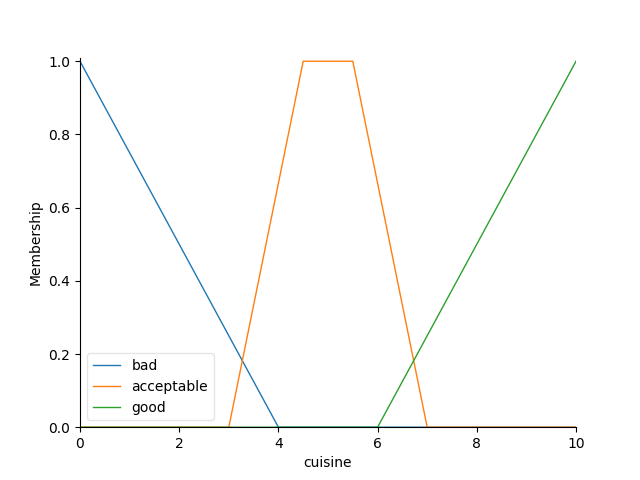
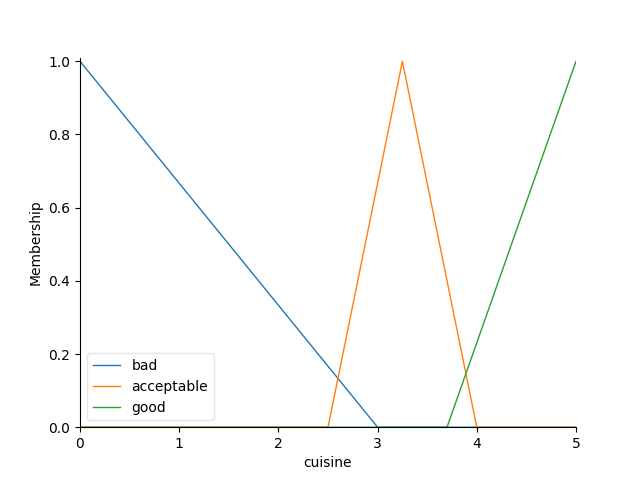
update fuzzy system

diff --git a/restaurant_recommendation.py b/restaurant_recommendation.py
@@ -15,21 +15,22 @@ class RestaurantRecommendation:
         self.price = ctrl.Antecedent(
             np.arange(self.price_range[0], self.price_range[1]+1, 1), 'price')
 
-        self.price['cheap'] = fuzz.trimf(self.price.universe, [10, 10, 30])
-        self.price['affordable'] = fuzz.trapmf(self.price.universe, [25, 35, 45, 55])
-        self.price['expensive'] = fuzz.trapmf(self.price.universe, [40, 60, 70, 90])
-        self.price['very_expensive'] = fuzz.trapmf(self.price.universe, [80, 120, 150, 150])
+        self.price['cheap'] = fuzz.trapmf(self.price.universe, [10, 10, 30,40])
+        self.price['affordable'] = fuzz.trimf(self.price.universe, [20, 40, 60])
+        self.price['expensive'] = fuzz.trimf(self.price.universe, [40, 60, 80])
+        self.price['very_expensive'] = fuzz.trapmf(self.price.universe, [60, 100, 150, 150])
 
         fig, _ = FuzzyVariableVisualizer(self.price).view()
         plt.savefig(images_paths['price'])
 
-        self.cuisine_range = (0, 10)
+        self.cuisine_range = (0, 5)
+        step = .01
         self.cuisine = ctrl.Antecedent(
-            np.arange(self.cuisine_range[0], self.cuisine_range[1]+.5, 0.5), 'cuisine')
+            np.arange(self.cuisine_range[0], self.cuisine_range[1]+step, step), 'cuisine')
 
-        self.cuisine['bad'] = fuzz.trimf(self.cuisine.universe, [0, 0, 4])
-        self.cuisine['acceptable'] = fuzz.trapmf(self.cuisine.universe, [3, 4.5, 5.5, 7])
-        self.cuisine['good'] = fuzz.trimf(self.cuisine.universe, [6, 10, 10])
+        self.cuisine['bad'] = fuzz.trimf(self.cuisine.universe, [self.cuisine_range[0], self.cuisine_range[0],3])
+        self.cuisine['acceptable'] = fuzz.trimf(self.cuisine.universe, [2.5, 3.25, 4])
+        self.cuisine['good'] = fuzz.trimf(self.cuisine.universe, [3.7, 5, 5])
         fig, _ = FuzzyVariableVisualizer(self.cuisine).view()
         plt.savefig(images_paths['cuisine'])
 
@@ -37,9 +38,9 @@ class RestaurantRecommendation:
         self.location = ctrl.Antecedent(
             np.arange(self.location_range[0], self.location_range[1]+.5, 0.5), 'location')
 
-        self.location['close'] = fuzz.trimf(self.location.universe, [0, 0, 5])
-        self.location['normal'] = fuzz.trapmf(self.location.universe, [4, 6.5, 7.5, 10])
-        self.location['far'] = fuzz.trapmf(self.location.universe, [8, 11, 13, 15])
+        self.location['close'] = fuzz.trapmf(self.location.universe, [0, 0,3, 5])
+        self.location['normal'] = fuzz.trimf(self.location.universe, [2, 6, 10])
+        self.location['far'] = fuzz.trimf(self.location.universe, [6, 11, 15])
         self.location['very_far'] = fuzz.trimf(self.location.universe, [14, 20, 20])
         fig, _ = FuzzyVariableVisualizer(self.location).view()
         plt.savefig(images_paths['location'])

diff --git a/gui.py b/gui.py
@@ -74,11 +74,11 @@ class Gui:
         self.output_label = Label(self.output_frame, font=FONTBIG, textvariable=self.output_value, width=28) \
             .pack(pady=5)
 
-        self.map = GMap(self, cuisines, restaurants)
+        self.map = GMap(self, cuisines, restaurants, self.height, self.width)
 
         self.map.get_widget().pack(side='left', padx=5, pady=5, expand=1)
         self.input_frame.pack(side='left', padx=5, pady=5, expand=1)
-        self.output_frame.pack(padx=5, pady=5, expand=1)
+        self.output_frame.pack(padx=10, pady=5, expand=1)
         self.output_image.pack(padx=5, pady=5)
 
     def set_images(self):
@@ -122,7 +122,7 @@ class Gui:
             .pack(side='left', padx=5, pady=5)
 
         selected = StringVar()
-        selected.set(data[0])
+        selected.set('Select')
 
         menu = Combobox(frame, textvariable=selected, state='readonly', values=data)
         menu.config(width=20)
@@ -162,7 +162,7 @@ class Gui:
             l = float(location)
 
             def check_valid(value, range, name):
-                return MESSAGE[2].format(range[0], range[1], name)+"\n" \
+                return MESSAGE[2].format(range[0], range[1], name) + "\n" \
                     if value < range[0] or value > range[1] else ""
 
             error_message += check_valid(p, self.price_range, "Price")

diff --git a/gmap.py b/gmap.py
@@ -4,14 +4,14 @@ import pandas as pd
 
 
 class GMap():
-    def __init__(self, master_gui, cuisines, restaurants, my_position=(33.4928347, 36.315426)):
+    def __init__(self, master_gui, cuisines, restaurants, height,width,my_position=(33.4928347, 36.315426)):
         self.master_gui = master_gui
         self.cuisines = cuisines
         self.restaurants = restaurants
         self.my_position = my_position
 
         self.map_widget = tkintermapview.TkinterMapView(
-            master_gui.root, width=800, height=600, corner_radius=0,
+            master_gui.root, width=width/3, height=height/2, corner_radius=0,
             use_database_only=True, database_path="damascus.db"
         )
 
